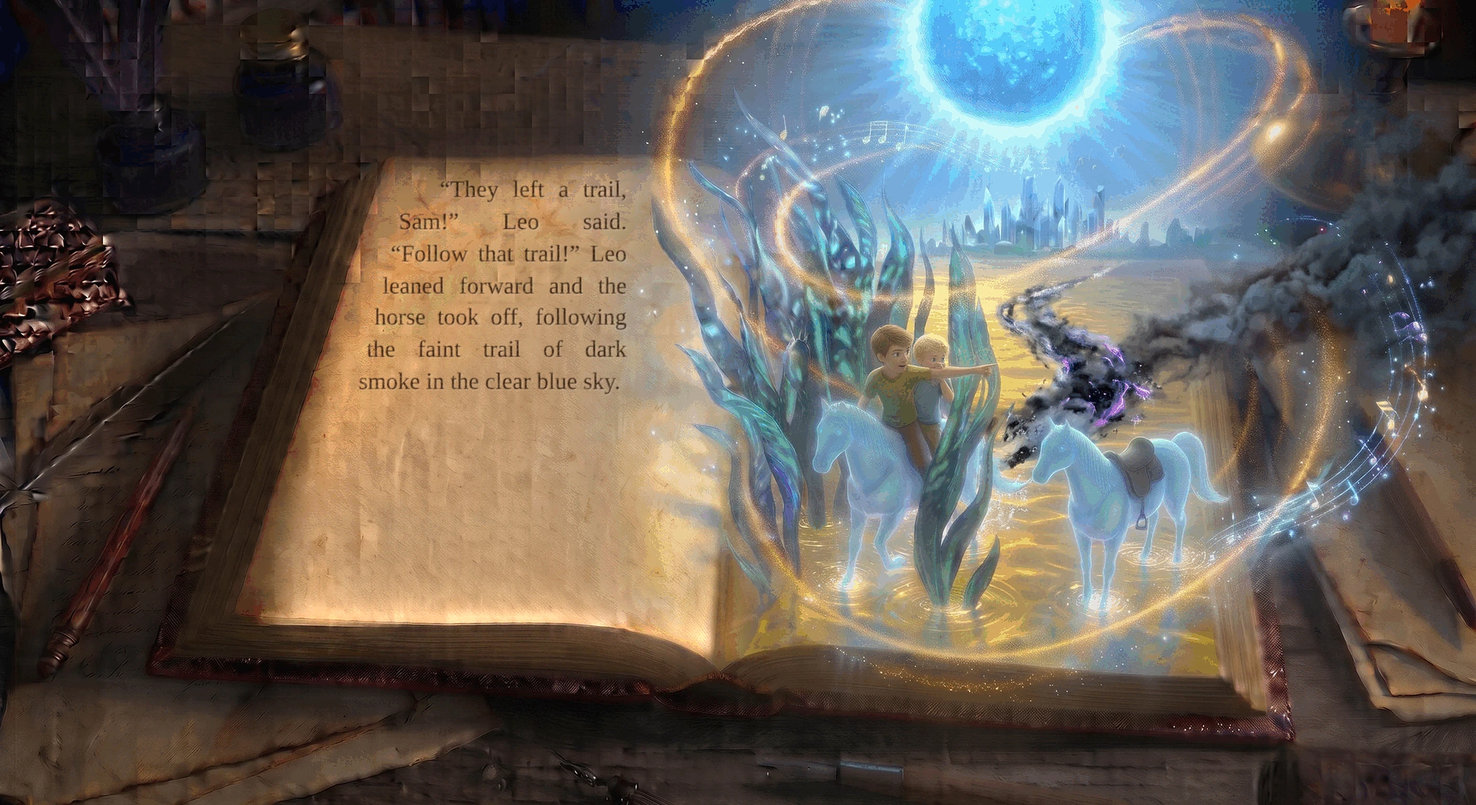
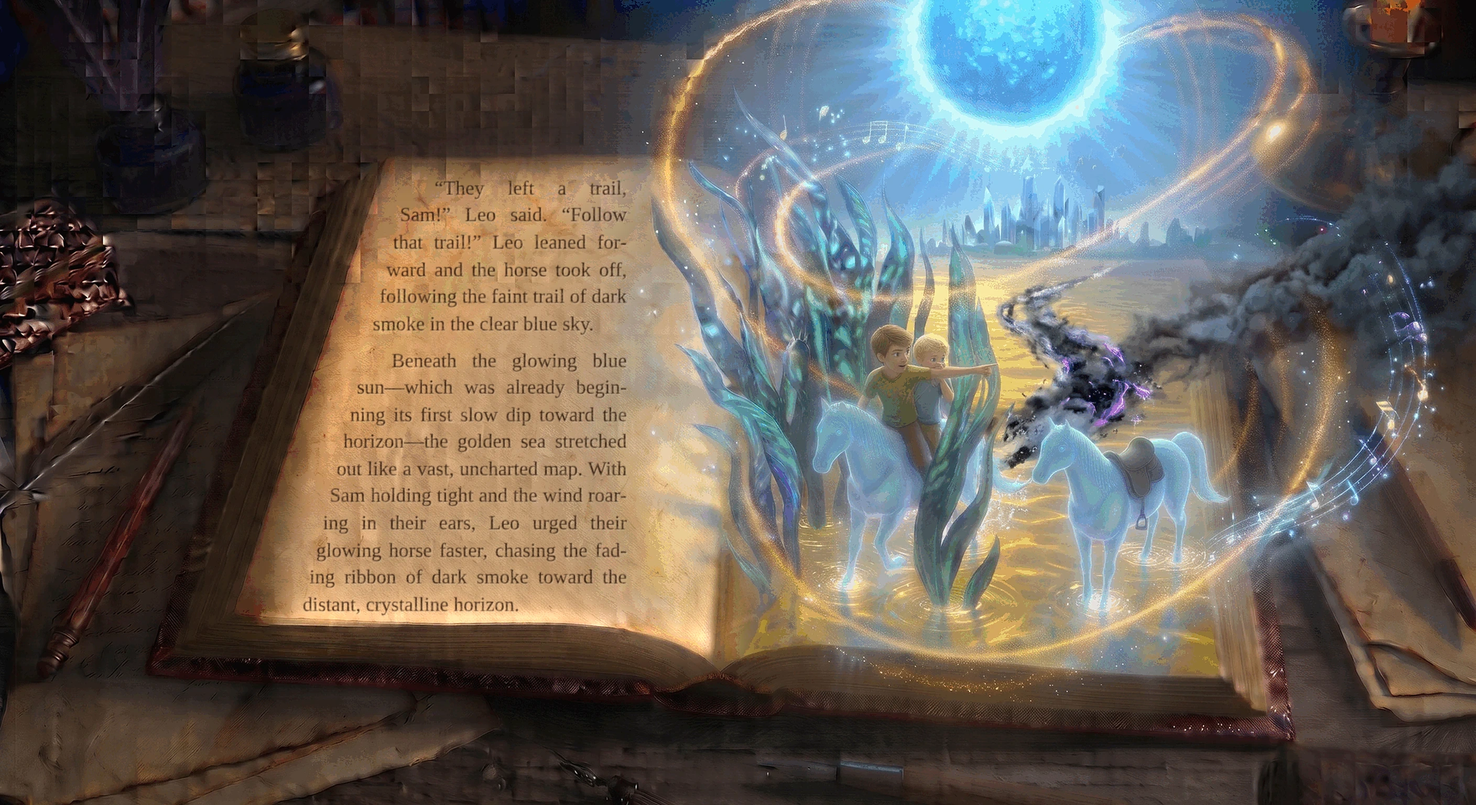
Page 99: continue with 'Beneath the glowing blue sun' paragraph; drop old page 100
Claude-Session: https://claude.ai/code/session_01BFtifSTdmWYaAK88ECs5PE

Changed region(s): [[0.2188, 0.2188, 0.4375, 0.7812]]

diff --git a/books/upside-down-world/index.html b/books/upside-down-world/index.html
@@ -131,7 +131,7 @@ body.narrow #bar{gap:6px;padding-top:8px}body.narrow #bar button{padding:0 12px;
   <button id="auto" aria-pressed="true" title="Turn the pages by itself">Auto turn</button>
   <button id="next" aria-label="Next page">&#8594;</button>
 </div>
-<script src="story.js?v=116"></script>
+<script src="story.js?v=117"></script>
 <script src="sprite.js?v=42"></script>
 <script src="lyrics.js?v=2"></script><script src="lyrics2.js?v=1"></script>
 <script src="voice.js?v=20"></script>
@@ -217,7 +217,7 @@ const vids={};let blackT=null;
 function black(){if(!blackT&&gl){blackT=gl.createTexture();gl.bindTexture(gl.TEXTURE_2D,blackT);gl.texImage2D(gl.TEXTURE_2D,0,gl.RGB,1,1,0,gl.RGB,gl.UNSIGNED_BYTE,new Uint8Array([0,0,0]));}return {ready:true,t:blackT};}
 function loadVid(name){if(vids[name])return vids[name];const v=document.createElement('video');v.muted=true;v.defaultMuted=true;v.loop=true;v.playsInline=true;v.setAttribute('playsinline','');v.setAttribute('muted','');v.preload='auto';v.crossOrigin='anonymous';v.src='img/'+name+'.mp4?v=67';
   const o={v,t:null,ok:false};v.addEventListener('playing',()=>{o.ok=true;});vids[name]=o;return o;}
-function pageTex(p){if(p.video)return {c:loadTex('img/'+p.img+'.webp?v=74'),d:p.relief?loadTex('img/'+p.img+'-d.webp'):black(),vid:loadVid(p.video)};return {c:loadTex('img/'+p.img+'.webp?v=74'),d:loadTex('img/'+p.img+'-d.webp')};}
+function pageTex(p){if(p.video)return {c:loadTex('img/'+p.img+'.webp?v=75'),d:p.relief?loadTex('img/'+p.img+'-d.webp'):black(),vid:loadVid(p.video)};return {c:loadTex('img/'+p.img+'.webp?v=75'),d:loadTex('img/'+p.img+'-d.webp')};}
 const ORIGIN={kb:[.72,.55],shade:[.80,.74]};
 function whv(p){return p.whale?[p.whale[0]/1408,p.whale[1]/768,p.whale[2]/1408,p.whale[3]/768]:[0,0,0,0];}
 function swv(p){return p.swirl?[p.swirl[0]/1408,p.swirl[1]/768,p.swirl[2],p.swirl[3]||0]:[0,0,0,0];}
@@ -242,7 +242,7 @@ function makeLayer(i){
   if(layers[i])return layers[i];
   const p=P[i],L=document.createElement('div');L.className='layer';
   const kb=document.createElement('div');kb.className='kb';kb.style.transformOrigin=(p.fx==='shade'?'80% 74%':'72% 55%');
-  if(!gl){let im;if(p.video){im=loadVid(p.video).v;im.poster='img/'+p.img+'.webp';}else{im=new Image();im.src='img/'+p.img+'.webp?v=74';im.alt='';}im.className='fb';kb.appendChild(im);}
+  if(!gl){let im;if(p.video){im=loadVid(p.video).v;im.poster='img/'+p.img+'.webp';}else{im=new Image();im.src='img/'+p.img+'.webp?v=75';im.alt='';}im.className='fb';kb.appendChild(im);}
   if(p.fx==='shade'){const s=document.createElement('div');s.className='shade';kb.appendChild(s);L._shade=s;}
   if(p.song){const r=document.createElement('div');r.className='rings';r.style.cssText='left:'+(650/W*100)+'%;top:'+(55/H*100)+'%;width:'+(130/W*100)+'%;height:'+(130/H*100)+'%';r.innerHTML='<i></i><i></i><i></i><i></i>';kb.appendChild(r);L._rings=r;}
   const t=document.createElement('div');t.className='txt'+(p.cover?' cover':'')+(p.book?' bk':'')+(p.songcard?' sc':'')+(p.big?' big':'');let b=p.box;

diff --git a/books/upside-down-world/story.js b/books/upside-down-world/story.js
@@ -100,6 +100,5 @@ window.STORY={"title":"The Upside-Down World","author":"M. A. Mafodh","pages":[
 {"img":"p38b","book":true,"box":[374,172,552,596],"parts":["\"Xylia!\" Leo screamed, but it was too late. The wagon zoomed away, a trail of black smoke behind it. Xylia was gone.\nSam started to cry, silent tears streaming down his face. \"They took her.\"\nLeo was scared, so scared he thought he might be sick. But looking at Sam's crying face, something else pushed the fear away. Anger. He was the big brother. He had to be brave.\nHe pulled Sam close."],"video":"p38bv"},
 {"img":"p39b","book":true,"box":[374,172,552,596],"parts":["\"We're going to get her back,\" he said, his voice shaking but firm. \"We are the only ones who can help her. They don't know who they're messing with.\"\nSam sniffled, wiping his nose on his sleeve. \"How? They have a wagon and cannonballs! We just have a... a blue horse.\""],"video":"p39bv"},
 {"img":"p40","book":true,"box":[374,172,552,596],"parts":["Leo looked at their glowing horse, which was nudging him sadly. He looked at the sea. Then he saw something—the tiny winged sea-creature Sam had freed was hovering in the air ahead, chirping urgently and pointing its nose toward the surface, where the pirates had forgotten one thing."],"video":"p40v"},
-{"img":"p40b","sprite":"p40k","dust":true,"book":true,"box":[374,170,584,596],"parts":["“They left a trail, Sam!” Leo said. “Follow that trail!” Leo leaned forward and the horse took off, following the faint trail of dark smoke in the clear blue sky."]},
-{"img":"p41","sprite":"p41k","dust":true,"book":true,"box":[374,170,584,596],"parts":["Beneath the glowing blue sun—which was already beginning its first slow dip toward the horizon—the golden sea stretched out like a vast, uncharted map. With Sam holding tight and the wind roaring in their ears, Leo urged their glowing horse faster, chasing the fading ribbon of dark smoke toward the distant, crystalline horizon."]},
+{"img":"p40b","sprite":"p40k","dust":true,"book":true,"box":[374,170,584,596],"parts":["“They left a trail, Sam!” Leo said. “Follow that trail!” Leo leaned forward and the horse took off, following the faint trail of dark smoke in the clear blue sky.\nBeneath the glowing blue sun—which was already beginning its first slow dip toward the horizon—the golden sea stretched out like a vast, uncharted map. With Sam holding tight and the wind roaring in their ears, Leo urged their glowing horse faster, chasing the fading ribbon of dark smoke toward the distant, crystalline horizon."]},
 {"img":"p41b","sprite":"p41k","dust":true,"book":true,"box":[374,170,584,596],"parts":["They didn’t know what dangers waited for them in the pirates’ vortex, or what secrets this strange world still held—only that they wouldn’t stop until Xylia was safe. The chase had begun. A daring new adventure lay ahead."]}]};
